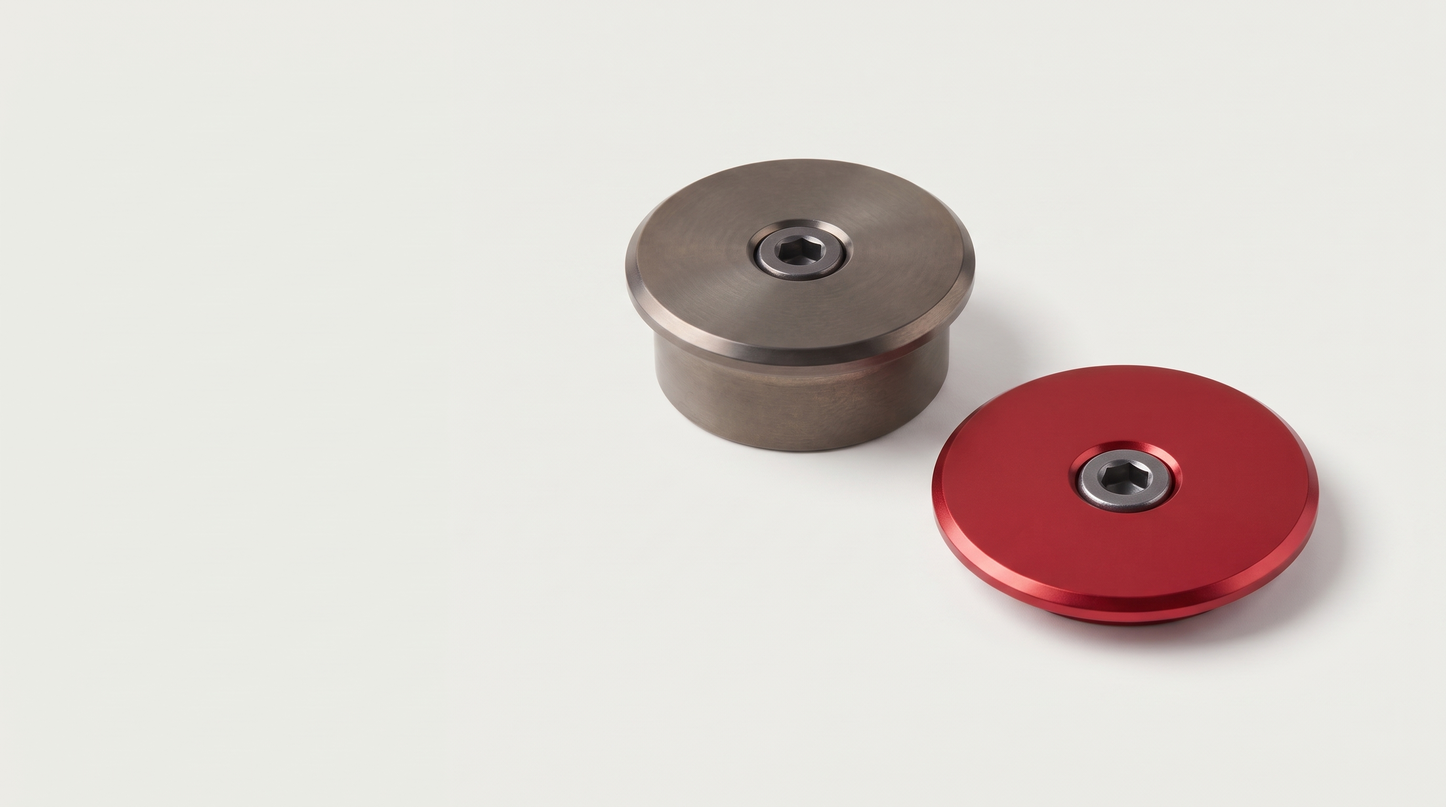
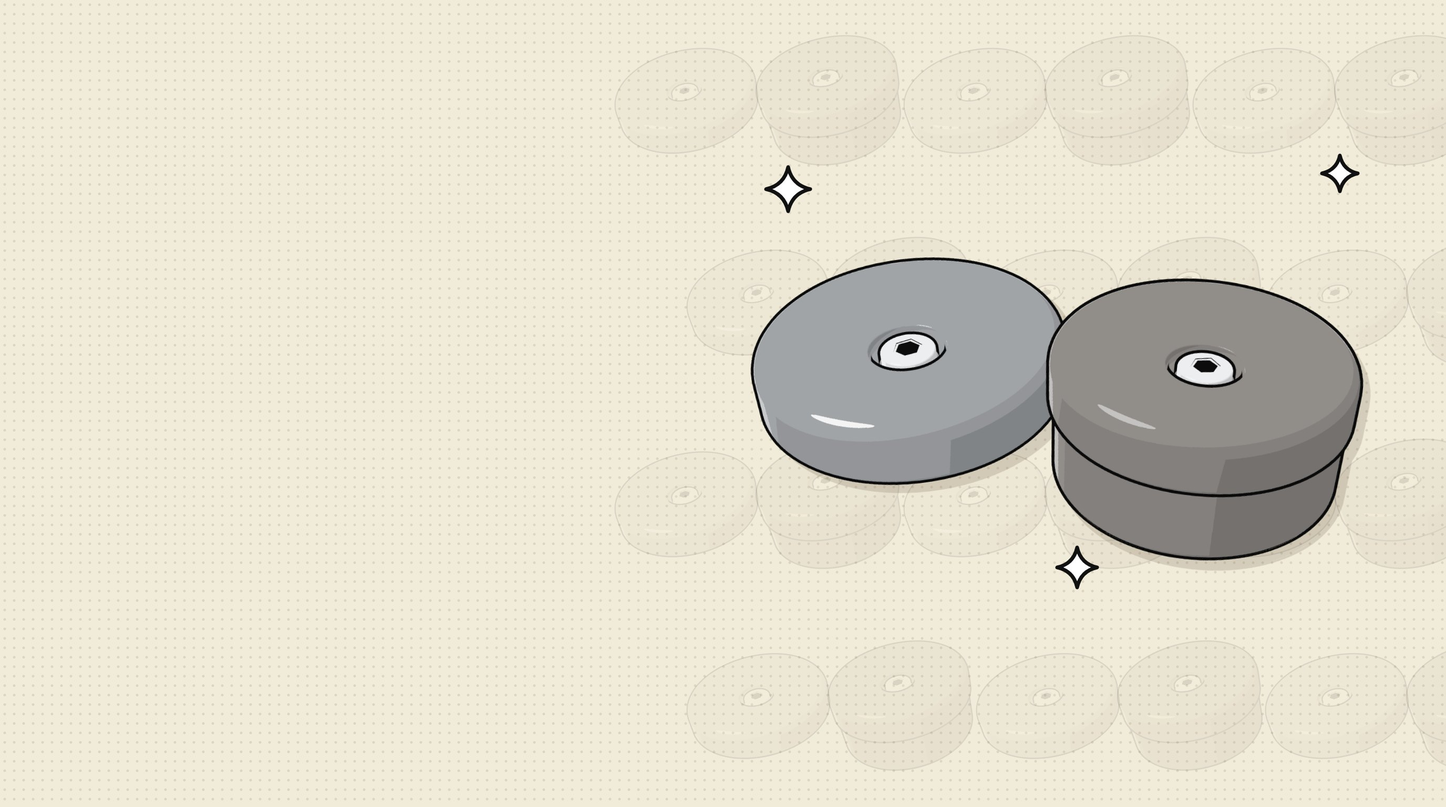
Use cartoon drawings, remove the workshop page and duplicate tests
- The home and bespoke images are now cartoon drawings, made from the 3D
  models of the bespoke page. They are about 0.4 MB each, in place of
  1.4 to 2 MB. On a phone, the heroes show the right side of the image,
  where the parts are. The alt texts say that they are drawings.
- The workshop page is gone, with its images, the Collage component
  that only it used, and its links in the top menu and the footer. The
  footer now has three link columns.
- Tests: remove the workshop and collage tests, and four duplicates
  (the material pixel test, the shop pixel-pattern test, and the phone
  and tablet footer tests). One duplicate check in the 3D stem unit
  test is also gone.

diff --git a/tests/desktop.spec.ts b/tests/desktop.spec.ts
@@ -338,23 +338,6 @@ test.describe("3D stem on the bespoke page", () => {
     await expect(model(page)).toHaveAttribute("data-bolts", "2");
   });
 
-  test("the material does not change the shape of the stem", async ({ page }) => {
-    await page.goto("/bespoke");
-    await page.getByRole("button", { name: "Polished", exact: true }).click();
-    const area = async () => {
-      await page.evaluate(() => new Promise((r) => requestAnimationFrame(() => requestAnimationFrame(r))));
-      return (await meanColor(page)).n;
-    };
-    const counts: number[] = [];
-    for (const material of ["Steel", "Titanium"]) {
-      await page.getByRole("button", { name: material, exact: true }).click();
-      await expect(model(page)).toHaveAttribute("data-material", material);
-      counts.push(await area());
-    }
-    // The covered pixels are the same for every material. The edges can differ by a few pixels.
-    for (const n of counts) expect(Math.abs(n - counts[0])).toBeLessThan(counts[0] * 0.005);
-  });
-
   test("a brazed joint shows brass, and a welded joint does not", async ({ page }) => {
     await page.goto("/bespoke");
     await expect(model(page)).toHaveAttribute("data-bond", "Brazed");
@@ -449,7 +432,7 @@ test("the stem calculator keeps its height when the result needs more lines", as
 
 test.describe("images", () => {
   // The bespoke page shows 3D models; its photos show only with no WebGL (see the test of the 3D stem).
-  for (const path of ["/", "/shop", "/bag", "/workshop"]) {
+  for (const path of ["/", "/shop", "/bag"]) {
     test(`all images on ${path} load`, async ({ page }) => {
       // The bag is empty on a first visit, so the bag page needs items to show their images.
       if (path === "/bag") await saveBag(page, DEMO_BAG);
@@ -465,30 +448,6 @@ test.describe("images", () => {
       }
     });
   }
-
-  test("the lightbox shows the photo of the tile", async ({ page }) => {
-    await page.goto("/workshop");
-    await page.locator("button[title='View Flat Cap']").click();
-    await expect(page.locator("img[src*='workshop%2Fcollage-flat-cap.jpg']")).toHaveCount(2);
-  });
-});
-
-test("a shop image is hidden behind a pixel pattern while it loads, then it shows", async ({ page }) => {
-  let release!: () => void;
-  const gate = new Promise<void>((resolve) => (release = resolve));
-  await page.route("**/_next/image**", async (route) => {
-    await gate;
-    await route.continue();
-  });
-  await page.goto("/shop");
-  const img = page.locator("main img").first();
-  // The products come from Stripe and can change, so skip when no product has an image.
-  test.skip((await img.count()) === 0, "the shop has no product image");
-  await expect(img).toHaveCSS("opacity", "0");
-  release();
-  // The blocks sharpen for about 0.4 s. Then the canvas is gone and the photo shows.
-  await expect(img).toHaveCSS("opacity", "1");
-  await expect(page.locator("main canvas")).toHaveCount(0);
 });
 
 test("a bag image is hidden behind a pixel pattern while it loads, then it shows", async ({ page }) => {
@@ -656,15 +615,6 @@ test("the hero buttons have the same width as each other on every slide", async 
       for (const box of await Promise.all((await ctas.all()).map((a) => a.boundingBox()))) widths.add(Math.round(box!.width));
     }
     expect([...widths], `at ${width}px`).toHaveLength(1);
-  }
-});
-
-test("the two buttons at the end of the workshop page have the same width", async ({ page }) => {
-  for (const width of [320, 393, 600, 767, 820, 1023, 1280, 1680]) {
-    await page.setViewportSize({ width, height: 900 });
-    await page.goto("/workshop");
-    const [a, b] = await Promise.all(["Build yours", "Shop the catalog"].map((name) => page.getByRole("link", { name }).boundingBox()));
-    expect(Math.round(a!.width), `at ${width}px`).toBe(Math.round(b!.width));
   }
 });
 
@@ -1044,7 +994,7 @@ test.describe("bespoke order", () => {
 });
 
 test("the pages have the share image in the metadata, with a full address", async ({ page, request }) => {
-  for (const path of ["/", "/shop", "/bespoke", "/workshop"]) {
+  for (const path of ["/", "/shop", "/bespoke"]) {
     await page.goto(path);
     const og = await page.locator('meta[property="og:image"]').getAttribute("content");
     const twitter = await page.locator('meta[name="twitter:image"]').getAttribute("content");
@@ -1221,7 +1171,6 @@ test("the 3D stem takes its numbers from the options", () => {
   const base = { part: "stems" as const, type: "Threadless", material: "Steel", finish: "Brushed", bond: "Welded", height: "45 mm", length: "80 mm", angle: "17°" };
   const stem = stemParams(base, FIRST_STEM);
   expect(stem).toMatchObject({ type: "Threadless", lengthMm: 80, heightMm: 45, riseDeg: 17, bond: "Welded", finish: "Brushed" });
-  expect(stemParams({ ...base, material: "Titanium" }, FIRST_STEM).color).not.toBe(stem.color);
   expect(stemParams({ ...base, finish: "Polished" }, FIRST_STEM).roughness).toBeLessThan(stem.roughness);
   expect(stem.brushed).toBe(true);
   expect(stemParams({ ...base, finish: "Polished" }, FIRST_STEM).brushed).toBe(false);

diff --git a/tests/phone.spec.ts b/tests/phone.spec.ts
@@ -1,5 +1,5 @@
 import { expect, test, type Locator } from "@playwright/test";
-import { expectFooterAtBottom, forcePseudoState, heroDots, heroSlide, sizes, swipe, touchHold } from "./helpers";
+import { forcePseudoState, heroDots, heroSlide, sizes, swipe, touchHold } from "./helpers";
 
 const MIN_TARGET = 44;
 
@@ -177,24 +177,6 @@ test.describe("shop filters", () => {
   });
 });
 
-test.describe("collage lightbox", () => {
-  test("it locks the page scroll and a swipe down closes it", async ({ page }) => {
-    await page.goto("/workshop");
-    await page.locator("button[title^='View']").first().tap();
-    const close = page.getByRole("button", { name: "Close" });
-    await expect(close).toBeVisible();
-    expect(await page.evaluate(() => document.documentElement.style.overflow)).toBe("hidden");
-
-    const box = (await close.boundingBox())!;
-    expect(box.width).toBeGreaterThanOrEqual(MIN_TARGET);
-    expect(box.height).toBeGreaterThanOrEqual(MIN_TARGET);
-
-    await swipe(page, { x: 180, y: 200 }, { x: 180, y: 450 });
-    await expect(close).toHaveCount(0);
-    expect(await page.evaluate(() => document.documentElement.style.overflow)).toBe("");
-  });
-});
-
 test.describe("filled buttons and footer links on touch", () => {
   const WHITE = "rgb(255, 255, 255)";
 
@@ -284,8 +266,4 @@ test("the 3D view of the bespoke page stays at the top of the window while the o
 test("the bespoke page does not scroll sideways", async ({ page }) => {
   await page.goto("/bespoke");
   expect(await page.evaluate(() => document.documentElement.scrollWidth > document.documentElement.clientWidth)).toBe(false);
-});
-
-test("the footer is at the bottom of the window on a short page, and at the end of a long page", async ({ page }) => {
-  await expectFooterAtBottom(page);
 });

diff --git a/components/HeroCarousel.tsx b/components/HeroCarousel.tsx
@@ -13,9 +13,9 @@ import button from "./ui/button.module.css";
 import dots from "./ui/dots.module.css";
 
 const slidesFor = (products: Product[]) => [
-  { name: "Stems", kicker: "Stems — turned, milled and finished in the UK", meta: `Quill and threadless · ${fromLabel(products, "Stems")}`, cta: "Shop stems", image: "/images/home/hero-stems.jpg", alt: "A quill stem and a threadless stem" },
-  { name: "Spacers", kicker: "Spacers", meta: `For 1" and 1 1/8" steerers · ${fromLabel(products, "Spacers")}`, cta: "Shop spacers", image: "/images/home/hero-spacers.jpg", alt: "A stack of machined spacers" },
-  { name: "Caps", kicker: "Caps", meta: `Flat caps and spacer caps · ${fromLabel(products, "Caps")}`, cta: "Shop caps", image: "/images/home/hero-caps.jpg", alt: "A flat cap and a spacer cap" },
+  { name: "Stems", kicker: "Stems — turned, milled and finished in the UK", meta: `Quill and threadless · ${fromLabel(products, "Stems")}`, cta: "Shop stems", image: "/images/home/hero-stems.jpg", alt: "A drawing of a quill stem and a threadless stem" },
+  { name: "Spacers", kicker: "Spacers", meta: `For 1" and 1 1/8" steerers · ${fromLabel(products, "Spacers")}`, cta: "Shop spacers", image: "/images/home/hero-spacers.jpg", alt: "A drawing of spacers in different sizes and finishes" },
+  { name: "Caps", kicker: "Caps", meta: `Flat caps and spacer caps · ${fromLabel(products, "Caps")}`, cta: "Shop caps", image: "/images/home/hero-caps.jpg", alt: "A drawing of a flat cap and a spacer cap" },
 ];
 
 const INTERVAL_MS = 5000;

diff --git a/components/Footer.module.css b/components/Footer.module.css
@@ -1,4 +1,4 @@
-.footer { margin-top: auto; display: grid; grid-template-columns: 2fr repeat(4, minmax(0, 1fr)); gap: var(--spacing-20); padding: var(--spacing-40) var(--spacing-20); background: var(--surface-inverted-surface); color: var(--text-inverted); font-size: var(--text-meta); text-transform: uppercase; }
+.footer { margin-top: auto; display: grid; grid-template-columns: 2fr repeat(3, minmax(0, 1fr)); gap: var(--spacing-20); padding: var(--spacing-40) var(--spacing-20); background: var(--surface-inverted-surface); color: var(--text-inverted); font-size: var(--text-meta); text-transform: uppercase; }
 .wordmark { display: block; }
 .logo { display: block; width: auto; height: 28px; }
 .column { display: flex; flex-direction: column; gap: 8px; }
@@ -6,7 +6,7 @@
 
 /* Tablet */
 @media (max-width: 1023px) {
-  .footer { grid-template-columns: repeat(4, minmax(0, 1fr)); }
+  .footer { grid-template-columns: repeat(3, minmax(0, 1fr)); }
   .wordmark { grid-column: 1 / -1; }
 }
 

diff --git a/tests/tablet.spec.ts b/tests/tablet.spec.ts
@@ -1,12 +1,7 @@
 import { expect, test } from "@playwright/test";
-import { expectFooterAtBottom } from "./helpers";
 
 test("the shop shows the filters, with no toggle", async ({ page }) => {
   await page.goto("/shop");
   await expect(page.locator("button[aria-controls=shop-filters]")).toBeHidden();
   await expect(page.locator("#shop-filters")).toBeVisible();
-});
-
-test("the footer is at the bottom of the window on a short page, and at the end of a long page", async ({ page }) => {
-  await expectFooterAtBottom(page);
 });

diff --git a/components/Footer.tsx b/components/Footer.tsx
@@ -22,9 +22,6 @@ export function Footer() {
         <a href="/bespoke#caps">Caps</a>
       </div>
       <div className={styles.column}>
-        <Link href="/workshop">Workshop</Link>
-      </div>
-      <div className={styles.column}>
         <Link href="/support">Support</Link>
         <a href="/support#shipping">Shipping &amp; returns</a>
         <a href="/support#guarantee">Guarantee</a>

diff --git a/components/HeroCarousel.module.css b/components/HeroCarousel.module.css
@@ -20,6 +20,8 @@
 
 /* Phone */
 @media (max-width: 767px) {
+  /* The parts are at the right of each image, so show the right side on a narrow screen. */
+  .slide img { object-position: 90% 50%; }
   .hero { --logo-left: var(--spacing-12); height: 480px; }
 }
 

diff --git a/components/TopNav.tsx b/components/TopNav.tsx
@@ -11,7 +11,6 @@ const LINKS = [
   { label: "Home", href: "/" },
   { label: "Shop", href: "/shop" },
   { label: "Bespoke", href: "/bespoke" },
-  { label: "Workshop", href: "/workshop" },
   { label: "Support", href: "/support" },
 ];
 

diff --git a/public/README.md b/public/README.md
@@ -6,9 +6,8 @@ Put an image that only one component imports next to that component instead, and
 | Folder | Content |
 |---|---|
 | `images/brand/` | Logo, social share image, and other brand images. |
-| `images/home/` | Photos for the home page (hero slides, categories). |
-| `images/bespoke/` | Photos for the bespoke configurator (stems, spacers, caps). |
-| `images/workshop/` | Photos for the workshop page (hero, process steps, collage). |
+| `images/home/` | Cartoon drawings for the home page (hero slides, categories). |
+| `images/bespoke/` | Cartoon drawings for the bespoke configurator, shown when the browser has no WebGL. |
 | `icons/` | SVG icons and the favicon set. |
 | `fonts/` | Self-hosted font files. The site uses `next/font/google` today. |
 

diff --git a/README.md b/README.md
@@ -35,7 +35,7 @@ VS Code tasks for these commands are in `.vscode/tasks.json`.
 
 ## Project layout
 
-- `app/`: the pages (home, shop, bespoke, bag, workshop, support).
+- `app/`: the pages (home, shop, bespoke, bag, support).
 - `components/`: the React components, each with a CSS module.
 - `data/`: the JSON files that you edit to change the shop: bespoke options and price rules, and delivery zones. The build checks them. See `data/README.md`.
 - `lib/catalog.ts`, `lib/catalog-stripe.ts`, `lib/catalog-server.ts`: the catalog. The products come from Stripe (see "Products" below).
